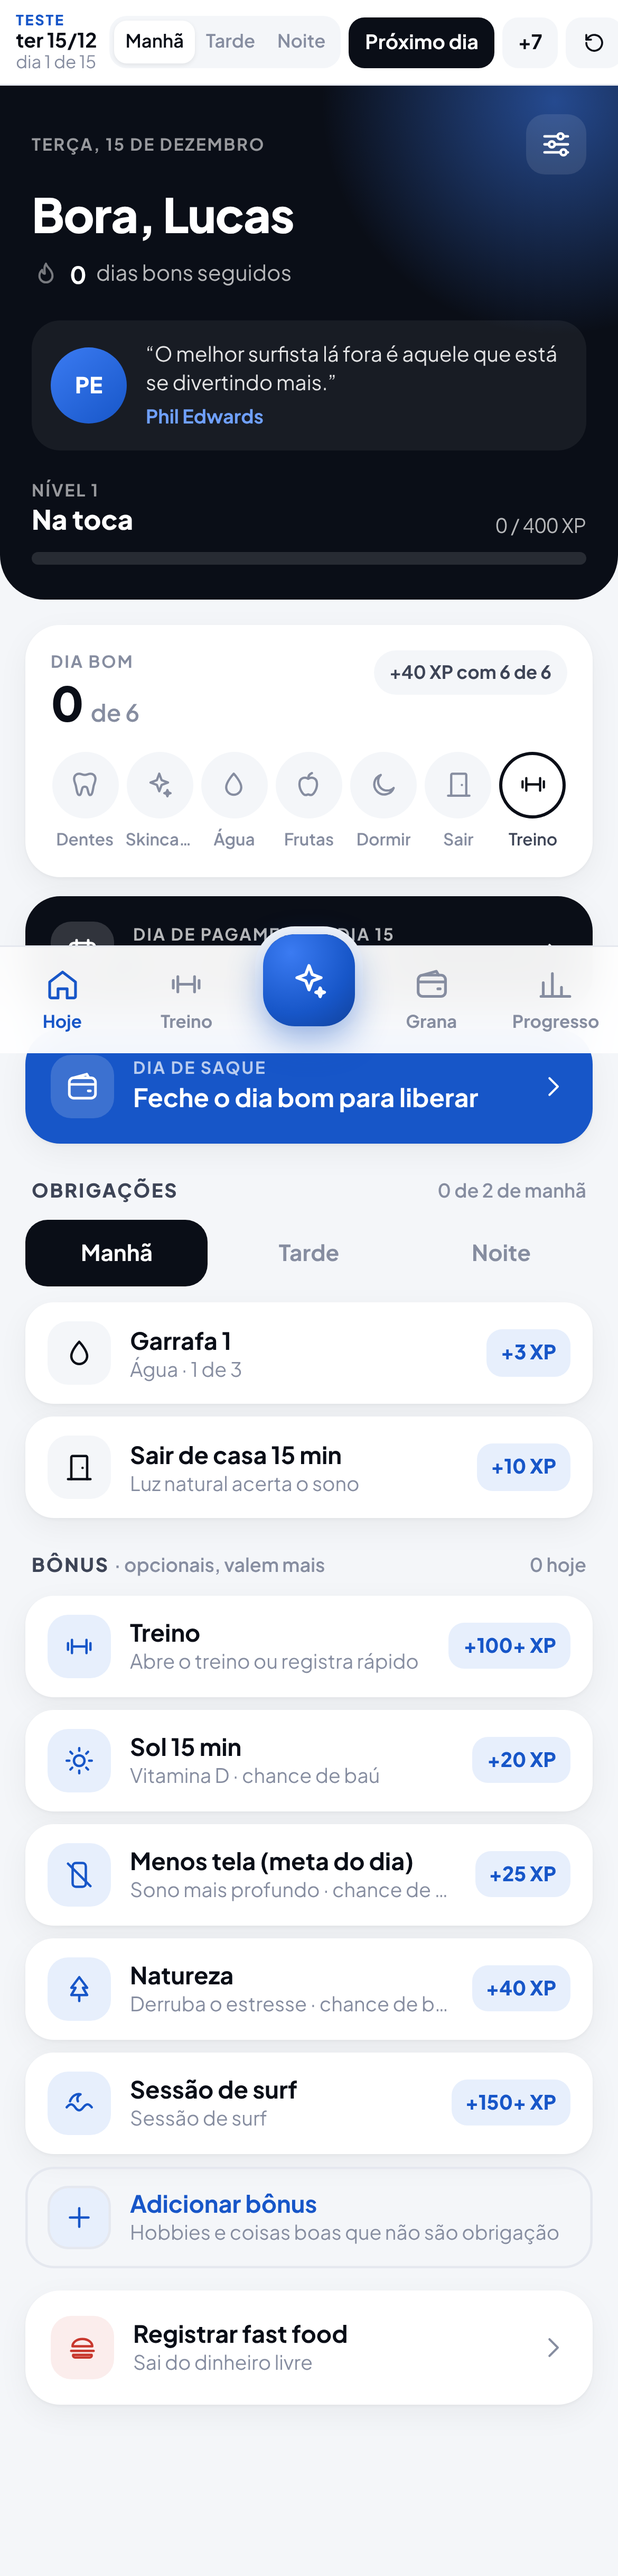
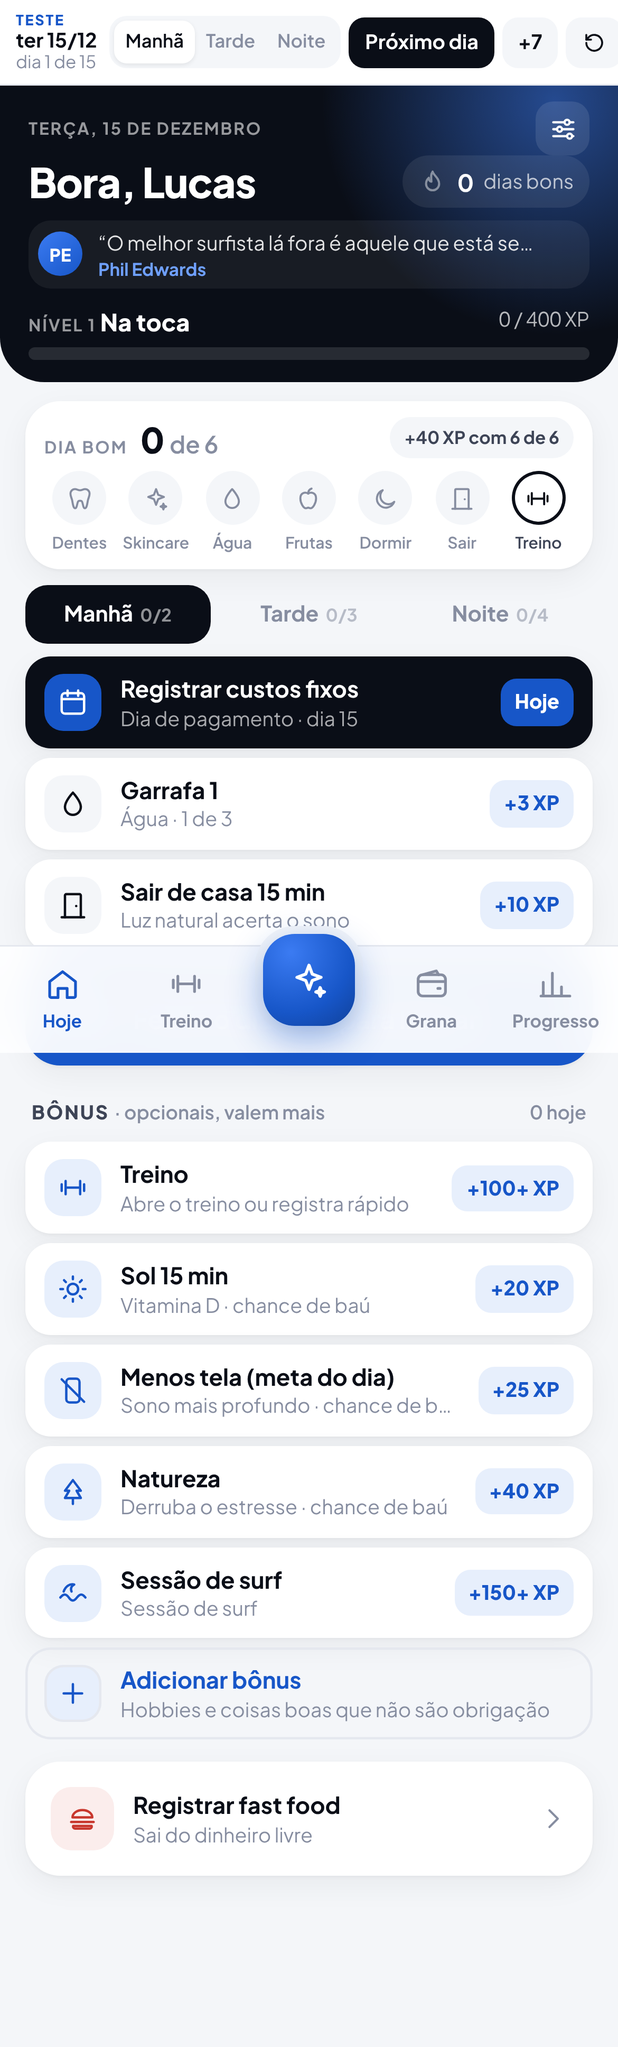
Hoje: tarefas na primeira tela e custos fixos como tarefa do dia de pagamento
Claude-Session: https://claude.ai/code/session_01RmXCHbnoxjguzTD6dDfWZb

diff --git a/app.js b/app.js
@@ -881,7 +881,7 @@ function renderHoje() {
   const estrelas = n.estrelas ? ' ' + Array.from({ length: n.estrelas }, () => ic('star', 'star')).join('') : '';
 
   const quote = fr ? `
-    <div class="quote">
+    <div class="quote ${UI.fraseAberta ? 'aberta' : ''}" data-a="frase" role="button" aria-label="Ver a frase inteira">
       <div class="quote-img">${fr.imagem ? `<img src="${fr.imagem}" alt="">` : `<span>${esc(iniciais(fr.autor))}</span>`}</div>
       <div><p>“${esc(fr.texto)}”</p><span>${esc(fr.autor)}</span></div>
     </div>` : '';
@@ -902,7 +902,6 @@ function renderHoje() {
       </button>`;
   };
   const obrigacoes = tarefasDoPeriodo(p).filter((t) => t.h.tipo === 'minimo');
-  const feitasP = obrigacoes.filter((t) => parteFeita(iso, t.h, t.i)).length;
   const bonus = extras().flatMap((h) => h.partes.map((pt, i) => ({ h, i, pt })));
   const bonusFeitos = bonus.filter((t) => parteFeita(iso, t.h, t.i)).length;
 
@@ -913,25 +912,37 @@ function renderHoje() {
       ${ic('next')}
     </button>` : '';
 
+  // Dia de pagamento (15 e 30): a tarefa de registrar os custos fixos aparece só nesse dia
+  const q = S.quinzena;
+  const pagamentoHoje = iso === q.inicio;
+  const tarefaFixos = pagamentoHoje ? `
+      <button class="task pagamento ${q.fixosOk ? 'done' : ''}" data-a="abrirFixos">
+        <span class="task-ic">${ic('calendar')}</span>
+        <span class="task-tx"><b>Registrar custos fixos</b><small>Dia de pagamento · dia ${q.tipo}</small></span>
+        ${q.fixosOk ? `<span class="task-ok">${ic('check')}</span>` : '<span class="task-xp hoje">Hoje</span>'}
+      </button>` : '';
+
   return `
-  <header class="hero">
+  <header class="hero compacto">
     <div class="hero-top"><span class="eyebrow light">${dataLonga(iso)}</span>
       <button class="icon-btn" data-a="ir" data-aba="ajustes" aria-label="Ajustes">${ic('sliders')}</button></div>
-    <h1>Bora, ${esc(S.config.nome)}</h1>
-    <div class="streak ${seq ? 'on' : ''}">${ic('flame')}<b>${seq}</b> ${seq === 1 ? 'dia bom seguido' : 'dias bons seguidos'}</div>
+    <div class="hero-linha">
+      <h1>Bora, ${esc(S.config.nome)}</h1>
+      <div class="streak ${seq ? 'on' : ''}">${ic('flame')}<b>${seq}</b> ${seq === 1 ? 'dia bom' : 'dias bons'}</div>
+    </div>
     ${quote}
     <div class="level">
       <div class="level-row">
-        <div><span class="eyebrow light">Nível ${n.nivel}${estrelas}</span><b>${esc(n.nome)}</b></div>
+        <div><span class="eyebrow light">Nível ${n.nivel}${estrelas}</span> <b>${esc(n.nome)}</b></div>
         <span class="xpnum" id="xpnum">${num(n.atual)} / ${num(n.falta)} XP</span>
       </div>
       <div class="bar"><i id="xpbar" style="width:${n.pct.toFixed(1)}%"></i></div>
     </div>
   </header>
 
-  <section class="card goodday ${bom ? 'complete' : ''}">
+  <section class="card goodday compacto ${bom ? 'complete' : ''}">
     <div class="card-head">
-      <div><span class="eyebrow">Dia bom</span><h2>${cont} <small>de ${tot}</small></h2></div>
+      <div class="gd-tt"><span class="eyebrow">Dia bom</span><h2>${cont} <small>de ${tot}</small></h2></div>
       <span class="pill ${bom ? 'blue' : ''}">${bom ? `+${S.config.xpDiaBom} XP ganhos` : `+${S.config.xpDiaBom} XP com ${tot} de ${tot}`}</span>
     </div>
     <div class="dots" style="grid-template-columns:repeat(${minimos().length + (habito('treino') ? 1 : 0)},1fr)">${minimos().map((h) => {
@@ -941,17 +952,14 @@ function renderHoje() {
       <span class="dot extra ${habitoFeitoId(iso, 'treino') ? 'on' : ''}" style="--p:0">${ic('dumbbell')}</span><small>Treino</small></button>` : ''}</div>
   </section>
 
-  ${S.quinzena.fixosOk ? '' : `
-    <button class="card banner dark" data-a="abrirFixos">
-      <span class="banner-ic">${ic('calendar')}</span>
-      <span><span class="eyebrow">Dia de pagamento · dia ${S.quinzena.tipo}</span><b>Registrar custos fixos</b></span>
-      ${ic('next')}
-    </button>`}
-  ${saque}
+  <div class="tabs topo" aria-label="Obrigações por período">${Object.keys(PERIODOS).map((k) => {
+    const lista = tarefasDoPeriodo(k).filter((t) => t.h.tipo === 'minimo');
+    const feitas = lista.filter((t) => parteFeita(iso, t.h, t.i)).length;
+    return `<button class="${k === p ? 'on' : ''} ${lista.length && feitas === lista.length ? 'completo' : ''}" data-a="abaPeriodo" data-p="${k}">${PERIODOS[k]} <span class="tab-n">${feitas}/${lista.length}</span></button>`;
+  }).join('')}</div>
+  <section class="tasks obrigacoes">${tarefaFixos}${obrigacoes.map(linha).join('') || '<p class="vazio">Nada neste período.</p>'}</section>
 
-  <div class="sec-row"><h3 class="sec">Obrigações</h3><span class="sec-n">${feitasP} de ${obrigacoes.length} ${PERIODOS[p].toLowerCase() === 'manhã' ? 'de manhã' : 'à ' + PERIODOS[p].toLowerCase()}</span></div>
-  <div class="tabs">${Object.keys(PERIODOS).map((k) => `<button class="${k === p ? 'on' : ''}" data-a="abaPeriodo" data-p="${k}">${PERIODOS[k]}</button>`).join('')}</div>
-  <section class="tasks">${obrigacoes.map(linha).join('') || '<p class="vazio">Nada neste período.</p>'}</section>
+  ${saque}
 
   <div class="sec-row"><h3 class="sec">Bônus <span class="sec-n">· opcionais, valem mais</span></h3><span class="sec-n">${bonusFeitos} hoje</span></div>
   <section class="tasks bonus">${bonus.map(linha).join('')}
@@ -1419,7 +1427,7 @@ function modalTreinoFeito(t, c, liberou = 0) {
 // --- Grana ---
 function renderGrana() {
   const q = S.quinzena;
-  const abas = `<div class="seg grana-abas">${[['resumo', 'Resumo'], ['fixos', 'Fixos']].map(([k, n]) => `<button class="${(UI.granaAba || 'resumo') === k ? 'on' : ''}" data-a="granaAba" data-k="${k}">${n}${k === 'fixos' && !q.fixosOk ? ' <i class="dot-alerta"></i>' : ''}</button>`).join('')}</div>`;
+  const abas = `<div class="seg grana-abas">${[['resumo', 'Resumo'], ['fixos', 'Fixos']].map(([k, n]) => `<button class="${(UI.granaAba || 'resumo') === k ? 'on' : ''}" data-a="granaAba" data-k="${k}">${n}${k === 'fixos' && !q.fixosOk && S.sim.data === q.inicio ? ' <i class="dot-alerta"></i>' : ''}</button>`).join('')}</div>`;
   return `
   <div class="page-head"><span class="eyebrow">Quinzena ${dataCurta(q.inicio)} a ${dataCurta(q.fim)}</span><h1>Grana</h1></div>
   ${abas}
@@ -1551,7 +1559,7 @@ function renderGranaFixos() {
   const q = S.quinzena;
   const pagos = q.fixos.filter((f) => f.pago).length;
   return `
-  ${q.fixosOk ? '' : `<section class="card aviso">${ic('calendar')}<div><b>Dia de pagamento</b><small>Confira quanto foi cada fixo nesta quinzena e confirme.</small></div></section>`}
+  ${q.fixosOk || S.sim.data !== q.inicio ? '' : `<section class="card aviso">${ic('calendar')}<div><b>Dia de pagamento</b><small>Confira quanto foi cada fixo nesta quinzena e confirme.</small></div></section>`}
   <section class="card form" data-fixos>${fixosEditorHtml()}</section>
   <p class="nota">Vale só para esta quinzena (${dataCurta(q.inicio)} a ${dataCurta(q.fim)}). Marque cada fixo quando pagar: ${pagos} de ${q.fixos.length} pagos.</p>
   ${q.fixosOk ? '' : `<button class="btn" data-a="confirmarFixos">Confirmar fixos</button>`}
@@ -2263,6 +2271,7 @@ const acoes = {
   ir(el) { UI.aba = el.dataset.aba; render(); window.scrollTo(0, 0); },
   periodo(el) { S.sim.periodo = el.dataset.p; UI.periodoAba = null; salvar(); render(); },
   abaPeriodo(el) { UI.periodoAba = el.dataset.p; render(); },
+  frase() { UI.fraseAberta = !UI.fraseAberta; render(); },
   tarefa(el) { abrirTarefa(el.dataset.h, Number(el.dataset.i)); },
   fastfood() { abrirFastFood(); },
   novoBonus() { abrirNovoBonus(); },
@@ -2350,7 +2359,7 @@ const acoes = {
   pagarFixo(el) { const f = S.quinzena.fixos[el.dataset.k]; f.pago = !f.pago; salvar(); render(); atualizarFixos(); },
   granaAba(el) { UI.granaAba = el.dataset.k; render(); },
   histTudo() { UI.histTudo = !UI.histTudo; render(); },
-  abrirFixos() { UI.aba = 'grana'; UI.granaAba = 'fixos'; render(); abrirFixosFolha(); },
+  abrirFixos() { abrirFixosFolha(); },
   confirmarFixos() { S.quinzena.fixosOk = true; salvar(); fecharFolha(); render(); toast('Fixos da quinzena registrados'); },
   qAddFixo() { const q = S.quinzena; mudarQuinzena(q, () => q.fixos.push({ id: 'f_' + uid(), nome: 'Novo fixo', valor: 0, pago: false })); render(); atualizarFixos(); },
   qRemFixo(el) { const q = S.quinzena; mudarQuinzena(q, () => q.fixos.splice(Number(el.dataset.i), 1)); render(); atualizarFixos(); },

diff --git a/styles.css b/styles.css
@@ -673,3 +673,63 @@ body.login .app { padding-top: 0; }
 .splash { min-height: 80vh; display: grid; place-items: center; color: var(--blue); }
 .splash .ic { width: 44px; height: 44px; animation: pulsa2 1s ease-in-out infinite; }
 @keyframes pulsa2 { 50% { opacity: .4; transform: scale(.92); } }
+
+/* --------- Hoje compacto: tarefas na primeira tela --------- */
+.hero.compacto { padding: 10px 18px 16px; margin-bottom: 12px; }
+.hero.compacto .hero-top { min-height: 32px; }
+.hero.compacto .icon-btn { width: 34px; height: 34px; border-radius: 11px; }
+.hero.compacto .icon-btn .ic { width: 19px; height: 19px; }
+.hero-linha { display: flex; align-items: center; justify-content: space-between; gap: 10px; margin: 0 0 10px; }
+.hero-linha h1 { margin: 0; font-size: 26px; line-height: 1.15; min-width: 0; overflow: hidden; text-overflow: ellipsis; white-space: nowrap; }
+.hero-linha .streak { flex: none; background: rgba(255, 255, 255, .08); padding: 6px 10px; border-radius: 99px; font-size: 12.5px; }
+.hero.compacto .quote { margin: 0 0 12px; padding: 8px 10px; gap: 10px; border-radius: 14px; }
+.hero.compacto .quote-img { width: 34px; height: 34px; }
+.hero.compacto .quote-img span { font-size: 12px; }
+.hero.compacto .quote p { font-size: 12.5px; display: -webkit-box; -webkit-line-clamp: 2; -webkit-box-orient: vertical; overflow: hidden; }
+.hero.compacto .quote span { font-size: 11.5px; }
+.hero.compacto .level-row { margin-bottom: 6px; align-items: center; }
+.hero.compacto .level-row .eyebrow { display: inline; }
+.hero.compacto .level-row b { font-size: 15px; }
+.goodday.compacto { padding: 12px 14px 12px; margin-bottom: 0; }
+.goodday.compacto .card-head { align-items: center; }
+.gd-tt { display: flex; align-items: baseline; gap: 8px; }
+.goodday.compacto h2 { font-size: 22px; }
+.goodday.compacto .dots { margin-top: 10px; }
+.goodday.compacto .dot { width: 38px; height: 38px; }
+.goodday.compacto .dot .ic { width: 17px; height: 17px; }
+.goodday.compacto .dotw { gap: 4px; }
+.tabs.topo { margin: 12px 0 0; }
+.sec-row.curto { margin: 12px 4px 0; }
+.task.pagamento:not(.done) { background: var(--ink); color: #fff; }
+.task.pagamento:not(.done) .task-ic { background: var(--blue); color: #fff; }
+.task.pagamento:not(.done) .task-tx small { color: rgba(255, 255, 255, .65); }
+.task-xp.hoje { background: var(--blue); color: #fff; }
+@media (max-width: 360px) {
+  .goodday.compacto .dot { width: 34px; height: 34px; }
+  .hero-linha h1 { font-size: 23px; }
+}
+
+/* Hoje ainda mais compacto */
+.hero.compacto { padding-bottom: 14px; }
+.hero-linha { margin-bottom: 8px; }
+.hero.compacto .quote { padding: 6px 10px 6px 6px; margin-bottom: 10px; cursor: pointer; }
+.hero.compacto .quote-img { width: 28px; height: 28px; }
+.hero.compacto .quote-img span { font-size: 10.5px; }
+.hero.compacto .quote > div:last-child { display: flex; flex-direction: column; min-width: 0; }
+.hero.compacto .quote p { -webkit-line-clamp: 1; font-size: 12.5px; }
+.hero.compacto .quote.aberta p { -webkit-line-clamp: 6; }
+.hero.compacto .quote span { font-size: 11px; line-height: 1.2; }
+.goodday.compacto { padding: 10px 12px; }
+.goodday.compacto .dots { margin-top: 8px; }
+.goodday.compacto .dot { width: 34px; height: 34px; }
+.goodday.compacto .dotw small { font-size: 10px; }
+.goodday.compacto .pill { padding: 5px 9px; font-size: 11px; }
+.tabs.topo { margin: 10px 0 8px; gap: 4px; }
+.tabs.topo button { padding: 9px 0; font-size: 13.5px; }
+.tab-n { font-size: 11px; font-weight: 700; opacity: .55; margin-left: 2px; }
+.tabs.topo button.completo:not(.on) { color: var(--blue); }
+.tabs.topo button.completo .tab-n { opacity: 1; }
+.tasks { gap: 6px; }
+.task { padding: 10px 12px; border-radius: 16px; }
+.task .task-ic { width: 36px; height: 36px; border-radius: 12px; }
+.task-tx b { font-size: 14.5px; }

diff --git a/design/README.md b/design/README.md
@@ -6,7 +6,7 @@ Capturas do protótipo em tamanho de iPhone 14 (390 × 844 pt, @3x). Abra `index
 
 | # | Tela | O que mostra |
 | --- | --- | --- |
-| 01 | Hoje | Header preto, frase do dia, nível, card Dia bom (6 obrigações + Treino), Obrigações por período, Bônus |
+| 01 | Hoje | Header compacto, card Dia bom (6 obrigações + Treino), abas Manhã/Tarde/Noite com contagem, tarefa de custos fixos (só no dia 15 e 30), Bônus |
 | 02 | Registrar obrigação | Motivos, XP, quanto vale e libera, deslizar para confirmar |
 | 03 | Novo bônus | Criar hobby opcional (nome, XP, ícone, porquê) |
 | 04 | Registrar bônus | Bônus criado pelo usuário, com chance de baú |
